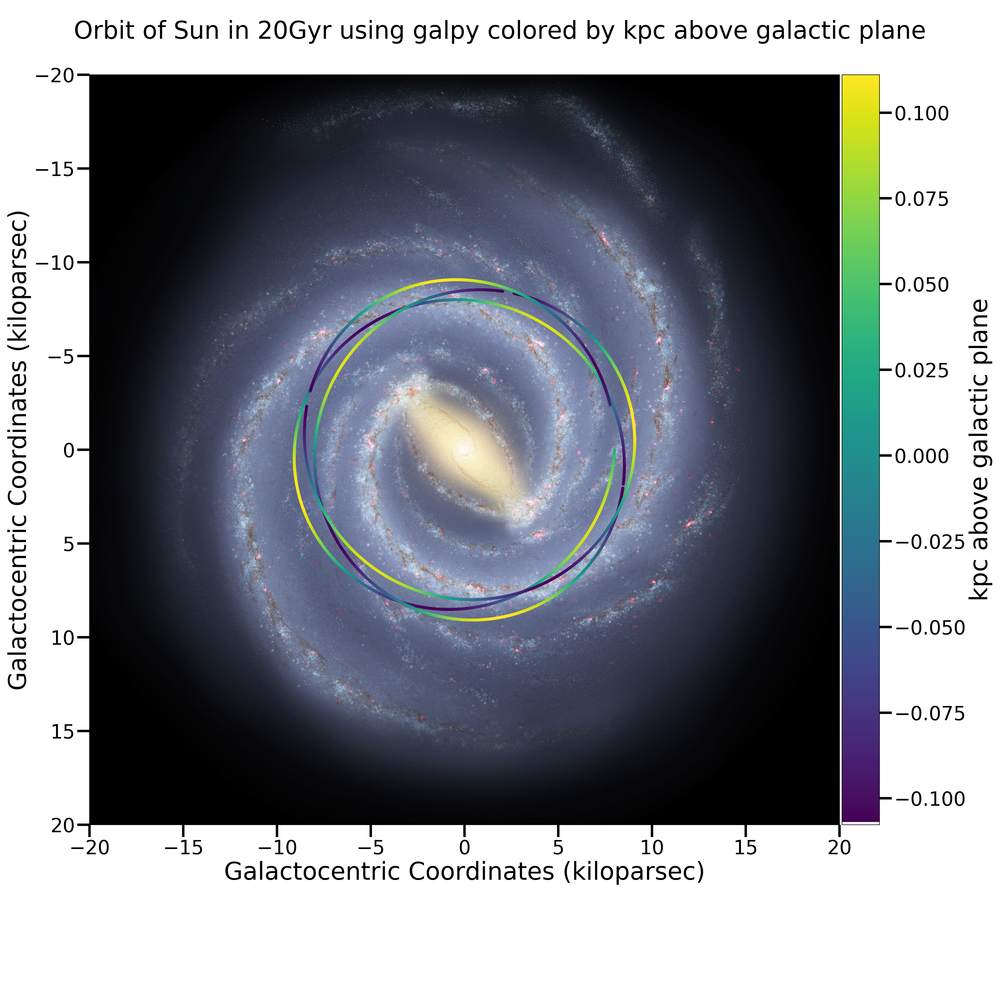
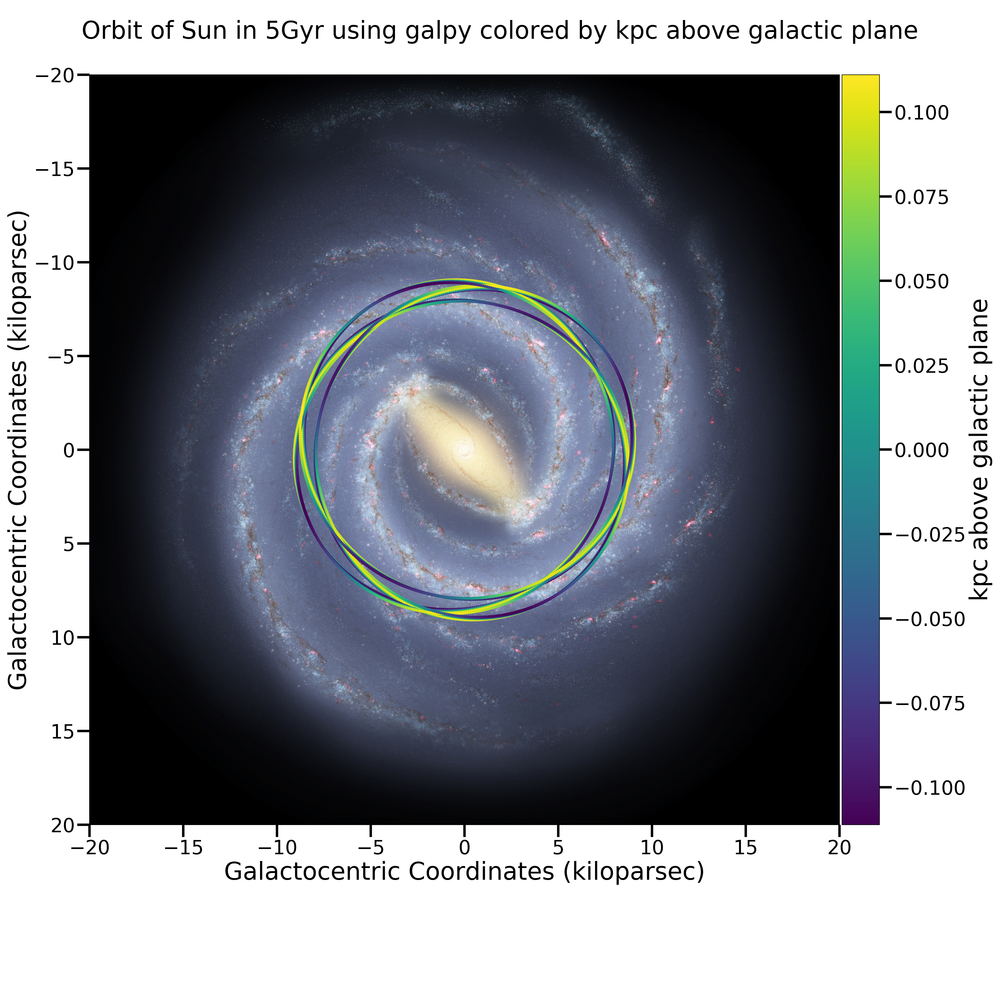
fix unit

diff --git a/README.rst b/README.rst
@@ -167,7 +167,7 @@ right handed which is also the expectation of ``mw_plot``
     # Save the figure
     plot_instance.savefig(file='gaia.png')
 
-Or plotting with Gaia Source with RV catalog (No code is prvided but you should be able to modify the code above to do that)
+Or plotting with Gaia Source with RV catalog (No code is provided but you should be able to modify the code above to do that)
 
 .. image:: https://github.com/henrysky/milkyway_plot/blob/master/readme_images/gaiadr2_rv_combined.png?raw=true
 
@@ -235,7 +235,7 @@ You can plot the orbit which are some scatter points on a face-on milkyway
 
     # Orbit Integration using galpy for the Sun
     op = Orbit([0., 0., 0., 0., 0., 0.], radec=True, ro=8., vo=220.)
-    ts = np.linspace(0, 20, 10000)
+    ts = np.linspace(0, 5, 10000) * u.Gyr
     op.integrate(ts, MWPotential2014)
     x = op.x(ts) * u.kpc
     y = op.y(ts) * u.kpc
@@ -247,7 +247,7 @@ You can plot the orbit which are some scatter points on a face-on milkyway
     plot_instance.s = 10  # make the scatter points bigger
 
     # set up plot title
-    plot_instance.title = 'Orbit of Sun in 20Gyr using galpy colored by kpc above galactic plane'
+    plot_instance.title = 'Orbit of Sun in 5Gyr using galpy colored by kpc above galactic plane'
 
     # use mw_scatter instead of scatter because we want a colorbar
     plot_instance.mw_scatter(x, y, [z, 'kpc above galactic plane'])
@@ -267,7 +267,7 @@ Example 4: Change the Center and Radius of the Plot
 
 .. image:: https://github.com/henrysky/milkyway_plot/blob/master/readme_images/example_plot_2.png?raw=true
 
-You can set the center point and radius of the plot. In this case, we set (16, -3) in galactic coordinates
+You can set the center point and radius of the plot. In this case, we set (-16, -2.5) in galactic coordinates
 such that the plot centered at the Sun at the end of 10Gyr orbit, and set the radius as 6 kpc to close up. We will
 just set the color to red without color bar title because there is no color bar needed. Please notice the plot assumed
 the milkyway is not moving.
@@ -283,7 +283,7 @@ the milkyway is not moving.
 
     # Orbit Integration using galpy for the Sun
     op = Orbit([0., 0., 0., 0., 0., 0.], radec=True, ro=8., vo=220.)
-    ts = np.linspace(0, 10, 10000)
+    ts = np.linspace(0, 0.5, 10000) * u.Gyr
     op.integrate(ts, MWPotential2014)
     x = op.x(ts) * u.kpc
     y = op.y(ts) * u.kpc
@@ -293,7 +293,7 @@ the milkyway is not moving.
     plot_instance = MWPlot(center=(-16, -2.5) * u.kpc, radius=5 * u.kpc)
 
     # set up plot title
-    plot_instance.title = 'Orbit of Sun in 10Gyr using galpy'
+    plot_instance.title = 'Orbit of Sun in 0.5 Gyr using galpy'
 
     # plot, need to subtract 8kpc to shift to galactic coordinates in right hands frame
     plot_instance.plot(x - 8. * u.kpc, y, c='r', linewidth=8.0)
